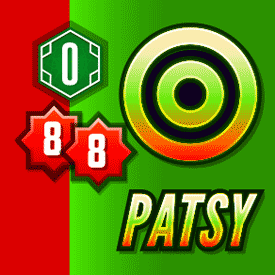
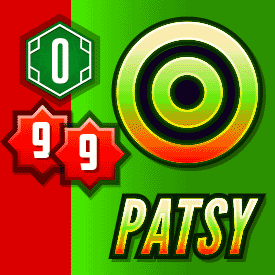
Reduce guerrillas unit attacks

diff --git a/server/classes/factions/Guerrillas.js b/server/classes/factions/Guerrillas.js
@@ -52,7 +52,7 @@ class Guerrillas extends Faction {
         //this.units['mole'].data.redeployFree = true;
 
         this.units['patsy'].count = 6;
-        this.units['patsy'].data.attack = [8, 8];
+        this.units['patsy'].data.attack = [9, 9];
 
         this.units['champion'] = {
             count: 1,
@@ -61,7 +61,7 @@ class Guerrillas extends Faction {
                 type: 'champion',
                 basic: false,
                 influence: 0,
-                attack: [6, 6],
+                attack: [7, 7],
                 cost: 1,
                 killed: false,
                 selected: false,
